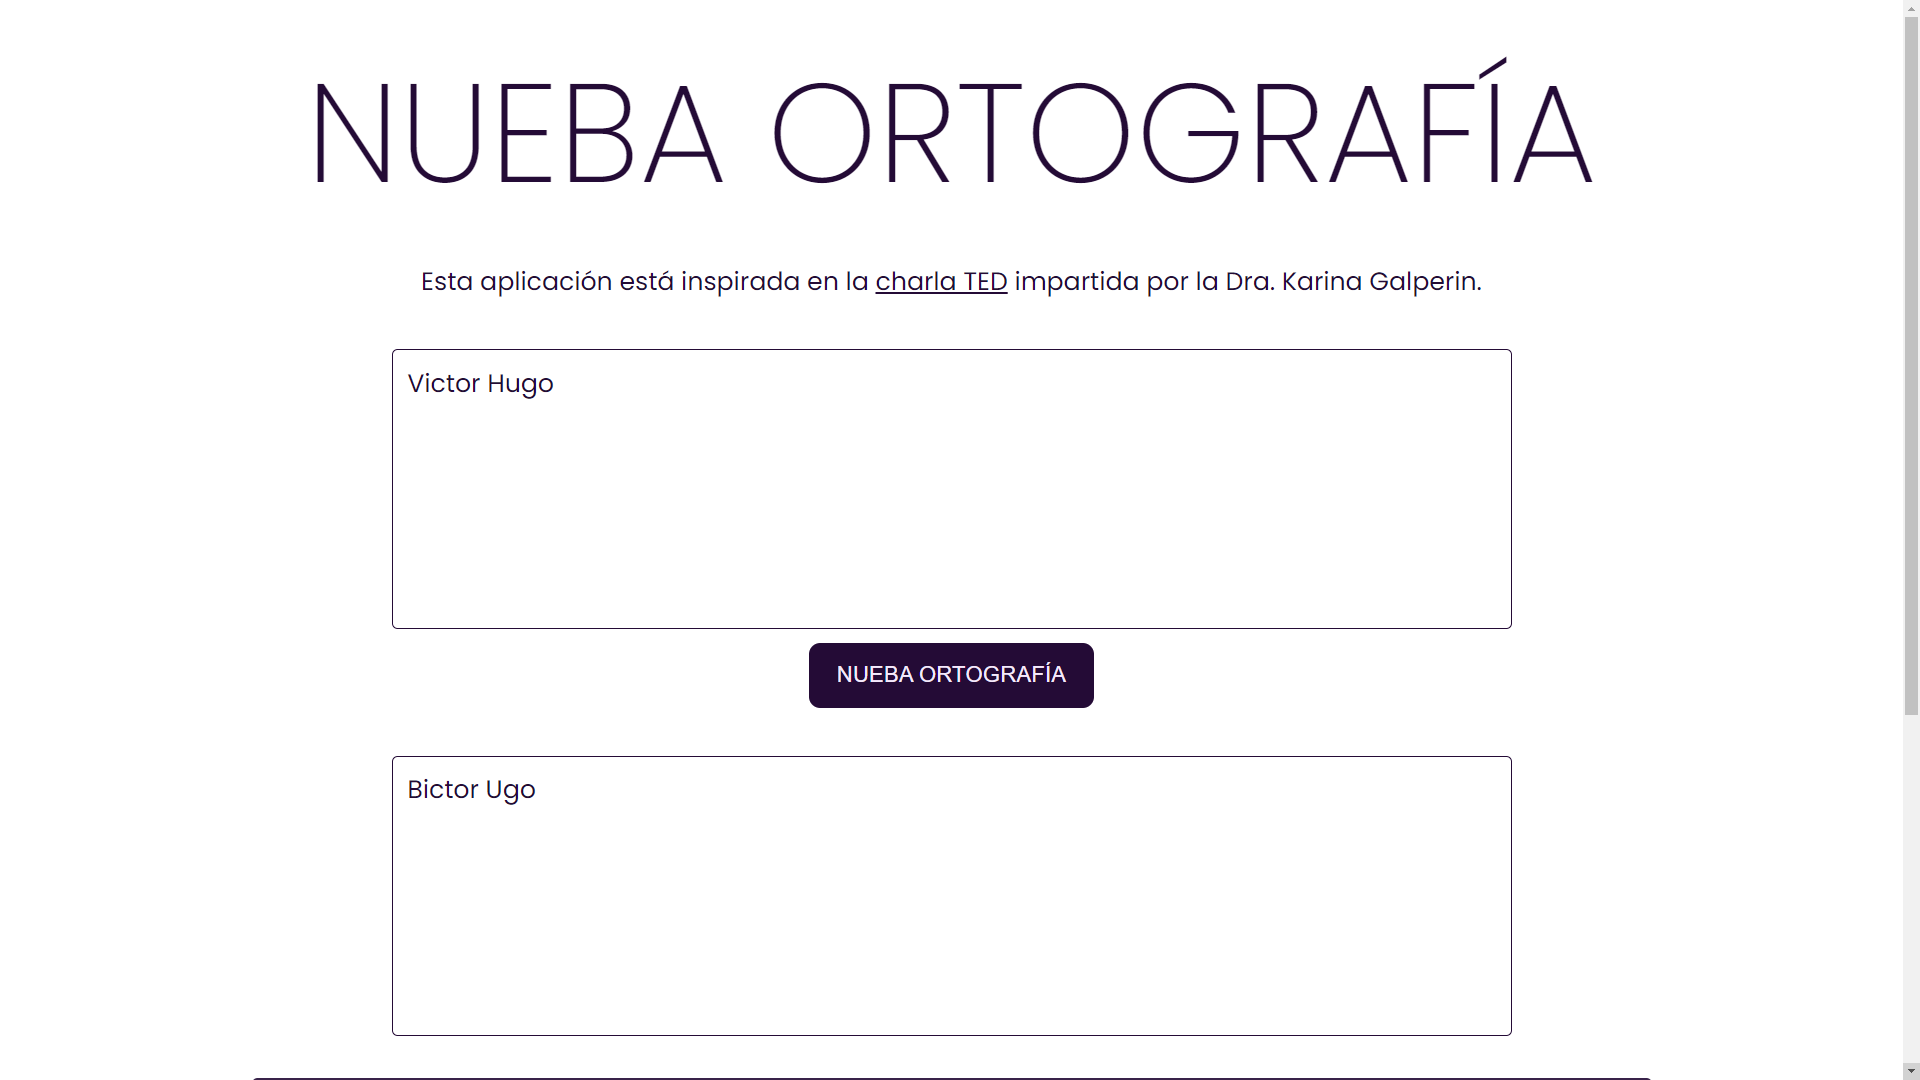
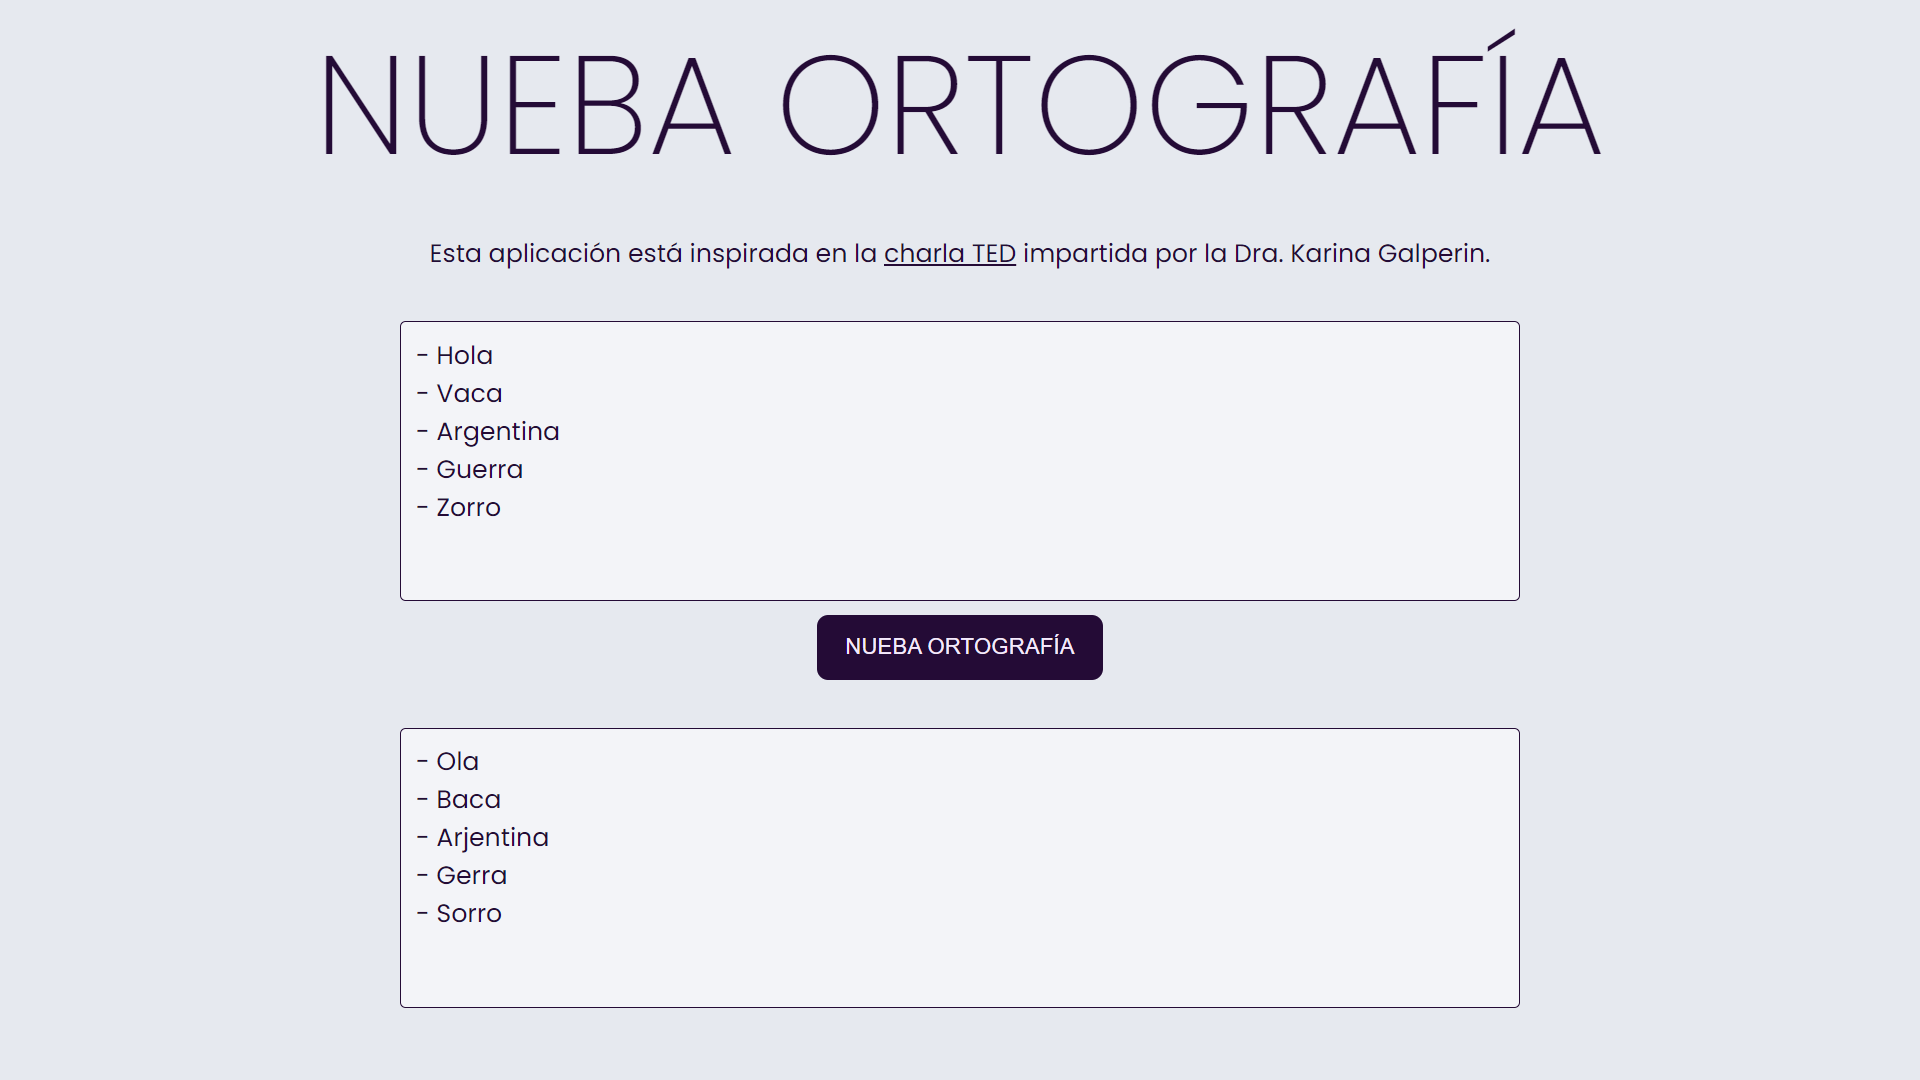
Refactor main project

diff --git a/style.css b/style.css
@@ -3,36 +3,44 @@
 body {
   font-family: 'Raleway', sans-serif;
   font-size: 1.5rem;
-  background-color: #25274D;
+  color: #333333;
 }
 
 h1 {
   text-align: center;
   font-weight: 200;
-  font-size: 5rem;
+  font-size: 6rem;
   text-transform: uppercase;
-  color: #aaabb8;
 }
 
-.container {
+.projects {
+  display: flex;
+  flex-wrap: wrap;
+  justify-content: center;
+  margin: 0 auto;
+  max-width: 90rem;
+}
+
+.project {
   display: flex;
   flex-direction: column;
-  align-items: stretch;
-  max-width: 30rem;
-  margin: 0 auto;
+  align-items: center;
+  margin: 1rem;
+  transition: .3s ease;
 }
 
-.container > a {
-  display: inline-block;
-  padding: 1rem;
-  border-radius: 4px;
-  margin-bottom: 0.5em;
-  background-color: #464866;
-  color: #aaabb8;
+.project:hover {
+  transform: scale(1.05);
+  background-color: #f0f0f0;
+  border-radius: 5px;
+}
+
+img {
+  width: 25rem;
+  border-radius: 5px;
+}
+
+a {
+  color: inherit;
   text-decoration: none;
-}
-
-.container > a:hover {
-  background-color: #2e9cca;
-  color: #25274d;
 }

diff --git a/script.js b/script.js
@@ -1,21 +1,29 @@
 const projects = [
   "typing",
   "nueba-ortografia",
-  "cookie-clicker",
   "todo-list",
+  "cookie-clicker",
   "timer",
   "bin-2-dec",
   "list-randomizer",
   "case-converter",
-]
+];
 
-const container = document.querySelector(".container")
-
+const container = document.querySelector(".projects");
 container.innerHTML = projects
-                        .map(project => `<a href="${project}" target="_blank">${format(project)}</a>`)
-                        .join("")
+                        .map(project => template(project))
+                        .join("");
+
+function template(project) {
+  return `
+    <a class="project" href="${project}" target="_blank">
+      <img src="images/${project}.png" alt="">
+      <p>${format(project)}</p>
+    </a>
+  `;
+}
 
 function format(project) {
-  const name = project.split("-").join(" ")
-  return name[0].toUpperCase() + name.slice("1")
+  const name = project.split("-").join(" ");
+  return name[0].toUpperCase() + name.slice("1");
 }

diff --git a/todo-list/style.css b/todo-list/style.css
@@ -2,6 +2,7 @@
 
 body {
   font-family: 'Turret Road', cursive;
+  background-color: #F6F7F0;
   font-size: 2rem;
 }
 
@@ -19,11 +20,12 @@ h1 {
 #todo {
   width: 100%;
   border-bottom: 2px solid gray;
+  background-color: inherit;
   font-size: 3rem;
 }
 
 #todo:focus {
-  background-color: lavender;
+  background-color: #DEE0D4;
 }
 
 .todo-list {
@@ -33,7 +35,7 @@ h1 {
 button {
   margin-top: .5rem;
   border: none;
-  background-color: #fff;
+  background-color: inherit;
   font-family: inherit;
   font-size: 1.5rem;
   text-align: left;
@@ -55,6 +57,7 @@ button:active {
 input {
   border: none;
   padding: .3rem;
+  background-color: inherit;
   font-family: inherit;
   font-size: inherit;
 }
@@ -73,5 +76,5 @@ input:focus {
 }
 
 .todo-item > input:focus {
-  background-color: lavender;
+  background-color: #DEE0D4;
 }

diff --git a/nueba-ortografia/css/styles.css b/nueba-ortografia/css/styles.css
@@ -10,10 +10,11 @@ body {
   margin: 0 auto 2rem;
   max-width: 50rem;
   width: 90%;
+  background-color: #E6E9EF;
 }
 
 h1 {
-  margin: 1rem 0 0.5rem 0;
+  margin: 1rem;
   text-align: center;
   font-size: 5rem;
   font-weight: 200;
@@ -33,6 +34,7 @@ textarea {
   width: 80%;
   min-height: 10rem;
   padding: .5rem;
+  background-color: #F3F4F8;
   color: #240b36;
   font-family: inherit;
   font-size: .9rem;

diff --git a/index.html b/index.html
@@ -9,8 +9,7 @@
 </head>
 <body>
   <h1>Vanilla Projects</h1>
-  <div class="container"></div>
-
+  <div class="projects"></div>
   <script src="script.js"></script>
 </body>
 </html>
